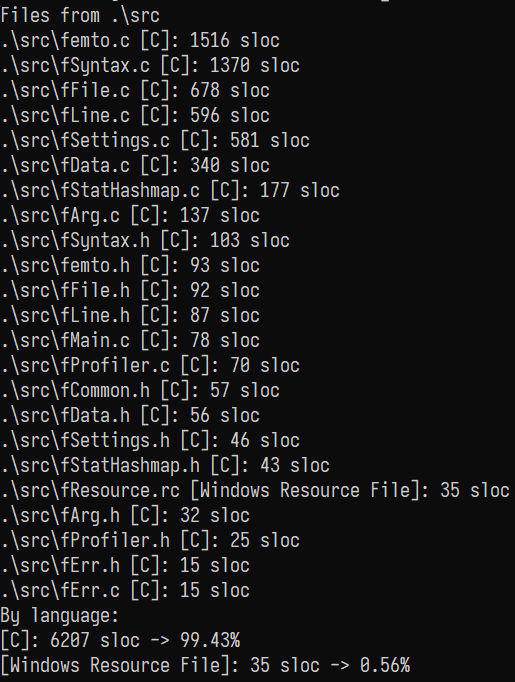
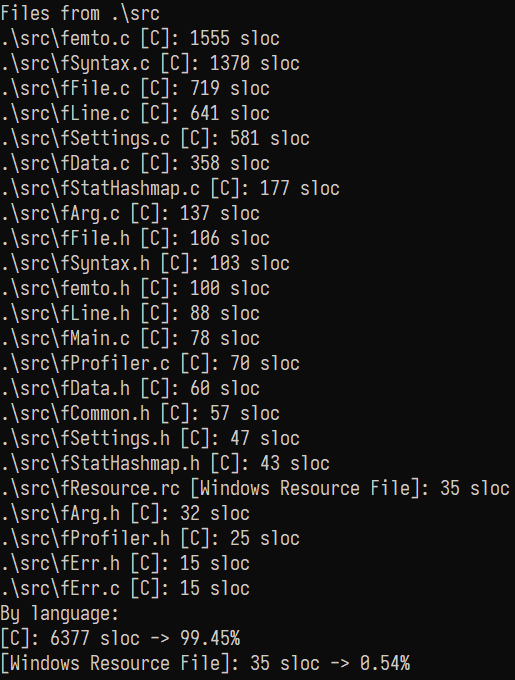
Update sloc

diff --git a/README.md b/README.md
@@ -13,7 +13,7 @@ It is also written in vanilla C & Win32 Console API - it's designed to be used s
 It has been compiled with MinGW GCC.
 
 Currently, my other tool [slocWin32](https://github.com/makuke1234/slocWin32)
-reports ~6200 source code lines (excluding whitespace, comments, language keywords & [jsonlite2](https://github.com/makuke1234/jsonlite2) library):
+reports ~6400 source code lines (excluding whitespace, comments, language keywords & [jsonlite2](https://github.com/makuke1234/jsonlite2) library):
 
 ![SLOC](./images/sloc.png)
 
